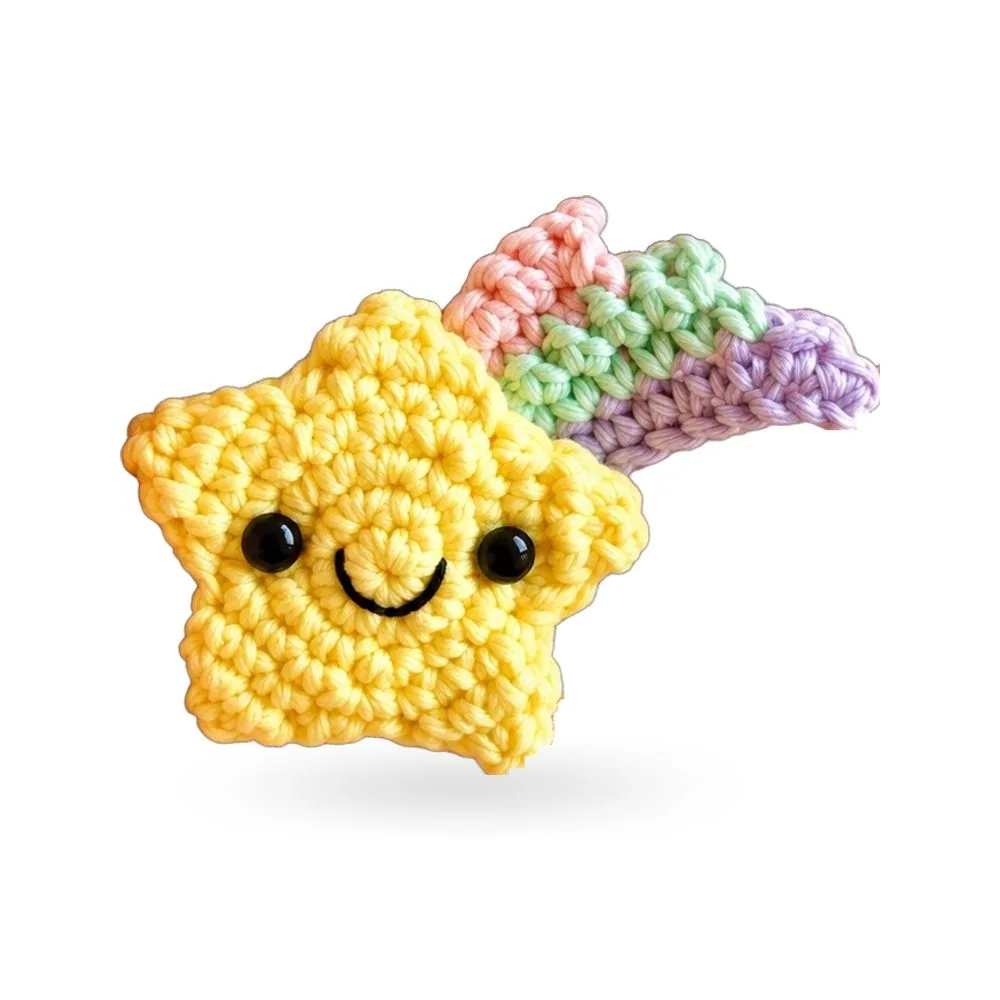
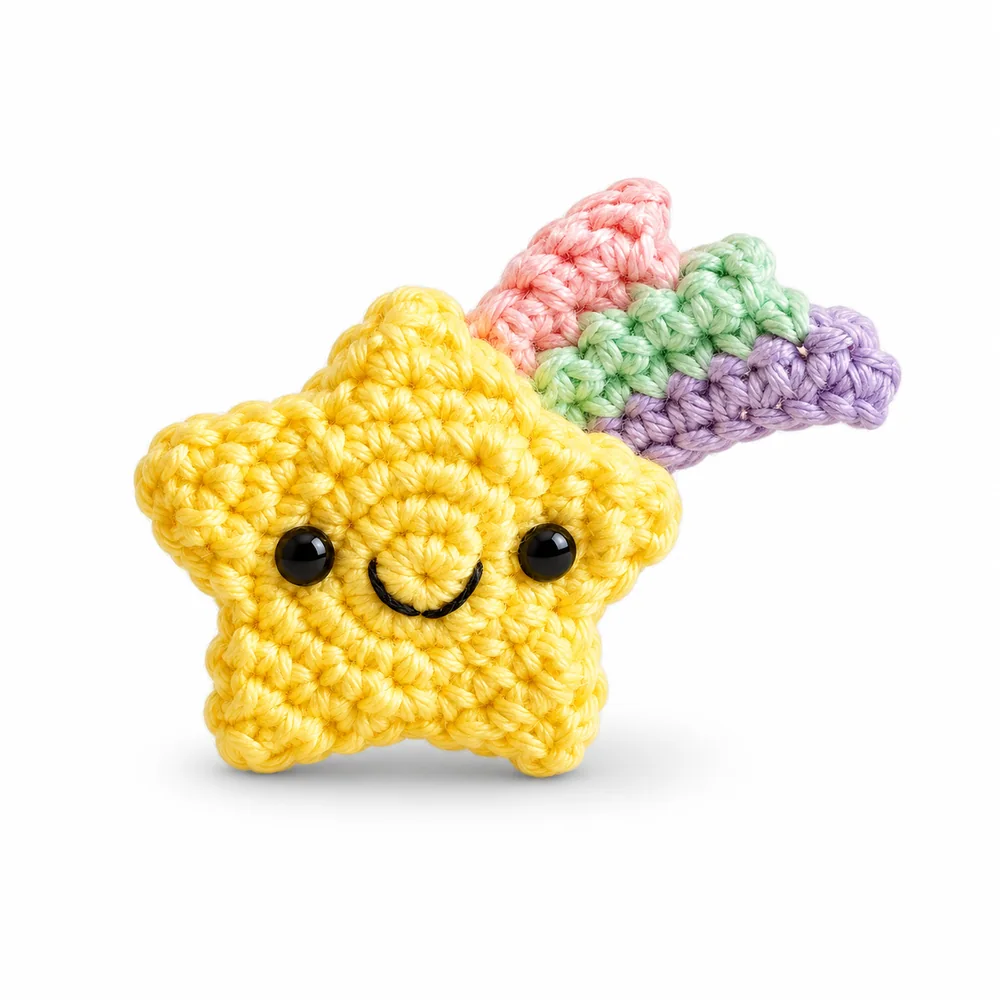
feat(products): deploy user-approved studio photos for all 6 products with webp and jpg formats

Changed region(s): [[0.124, 0.155, 0.899, 0.806]]

diff --git a/src/data/products.js b/src/data/products.js
@@ -8,7 +8,7 @@ export const products = [
     iconKey: "christmas-collection",
     soldOut: false,
     buyUrl: "https://cozy-stitches-crochet-shop.fourthwall.com/",
-    primaryImage: "/images/products/christmas-collection/christmas-1.jpg",
+    primaryImage: "/images/products/christmas-collection/christmas-1.webp",
     images: [
       "/images/products/christmas-collection/christmas-1.jpg",
       "/images/products/christmas-collection/christmas-2.jpg",
@@ -106,7 +106,7 @@ export const products = [
     iconKey: "santa",
     soldOut: false,
     buyUrl: "https://cozy-stitches-crochet-shop.fourthwall.com/cart/checkout?products=d917960a-1151-423b-8efa-a8c5522741c3:1&currency=USD",
-    primaryImage: "/images/products/santa-claus/santa-1.jpg",
+    primaryImage: "/images/products/santa-claus/santa-1.webp",
     images: [
       "/images/products/santa-claus/santa-1.jpg",
       "/images/products/santa-claus/santa-2.jpg",
@@ -213,7 +213,7 @@ export const products = [
     iconKey: "bunny",
     soldOut: false,
     buyUrl: "https://cozy-stitches-crochet-shop.fourthwall.com/cart/checkout?products=9755bfdc-b748-4b40-915c-69d4452c19c1:1&currency=USD",
-    primaryImage: "/images/products/kroha-bunny/bunny-1.jpg",
+    primaryImage: "/images/products/kroha-bunny/bunny-1.webp",
     images: [
       "/images/products/kroha-bunny/bunny-1.jpg",
       "/images/products/kroha-bunny/bunny-2.jpg",
@@ -310,7 +310,7 @@ export const products = [
     iconKey: "star",
     soldOut: false,
     isFree: true,
-    primaryImage: "/images/products/shooting-star/star-1.jpg",
+    primaryImage: "/images/products/shooting-star/star-1.webp",
     images: [
       "/images/products/shooting-star/star-1.jpg",
       "/images/products/shooting-star/star-2.jpg",
@@ -509,7 +509,7 @@ export const products = [
     iconKey: "graduate",
     soldOut: false,
     buyUrl: "https://cozy-stitches-crochet-shop.fourthwall.com/cart/checkout?products=97a4fd30-e2c5-453a-a5c5-5ad0c4abba20:1&currency=USD",
-    primaryImage: "/images/products/graduate-doll/graduate-1.jpg",
+    primaryImage: "/images/products/graduate-doll/graduate-1.webp",
     images: [
       "/images/products/graduate-doll/graduate-1.jpg",
       "/images/products/graduate-doll/graduate-2.jpg",
